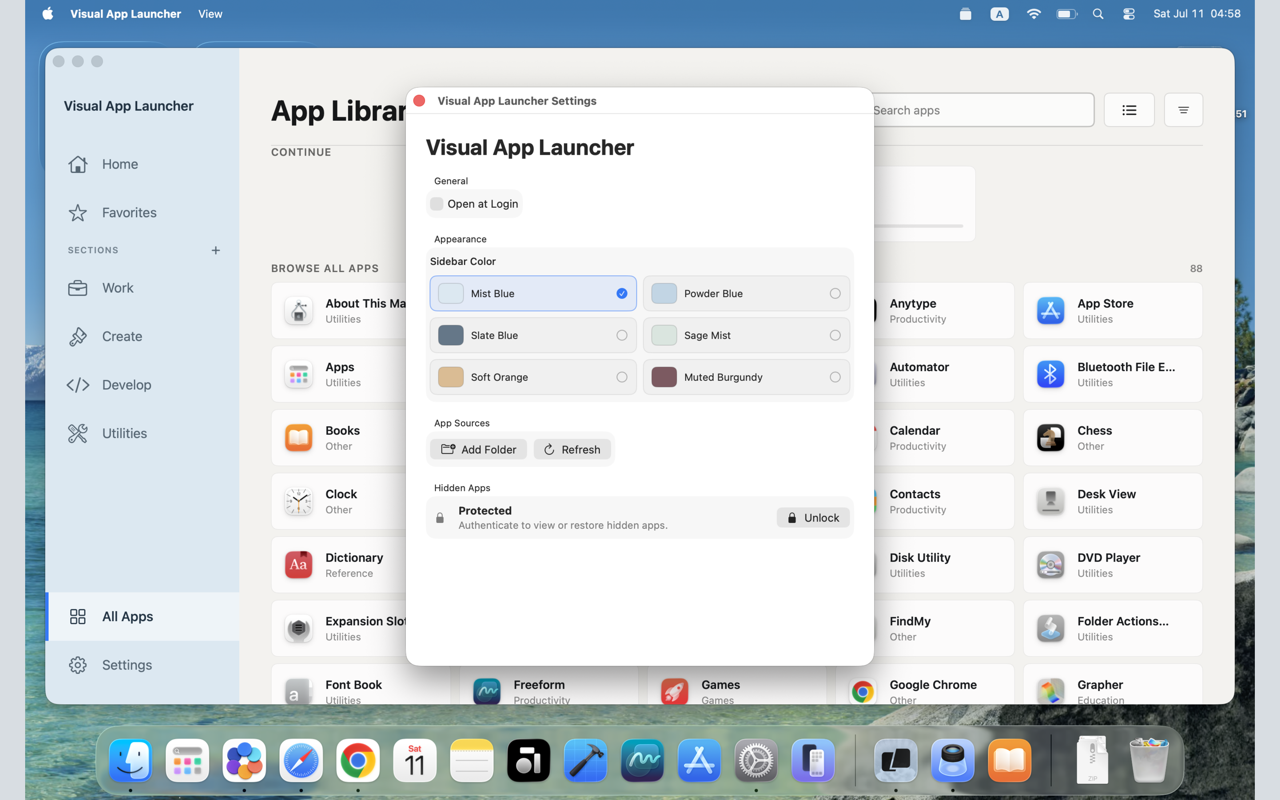
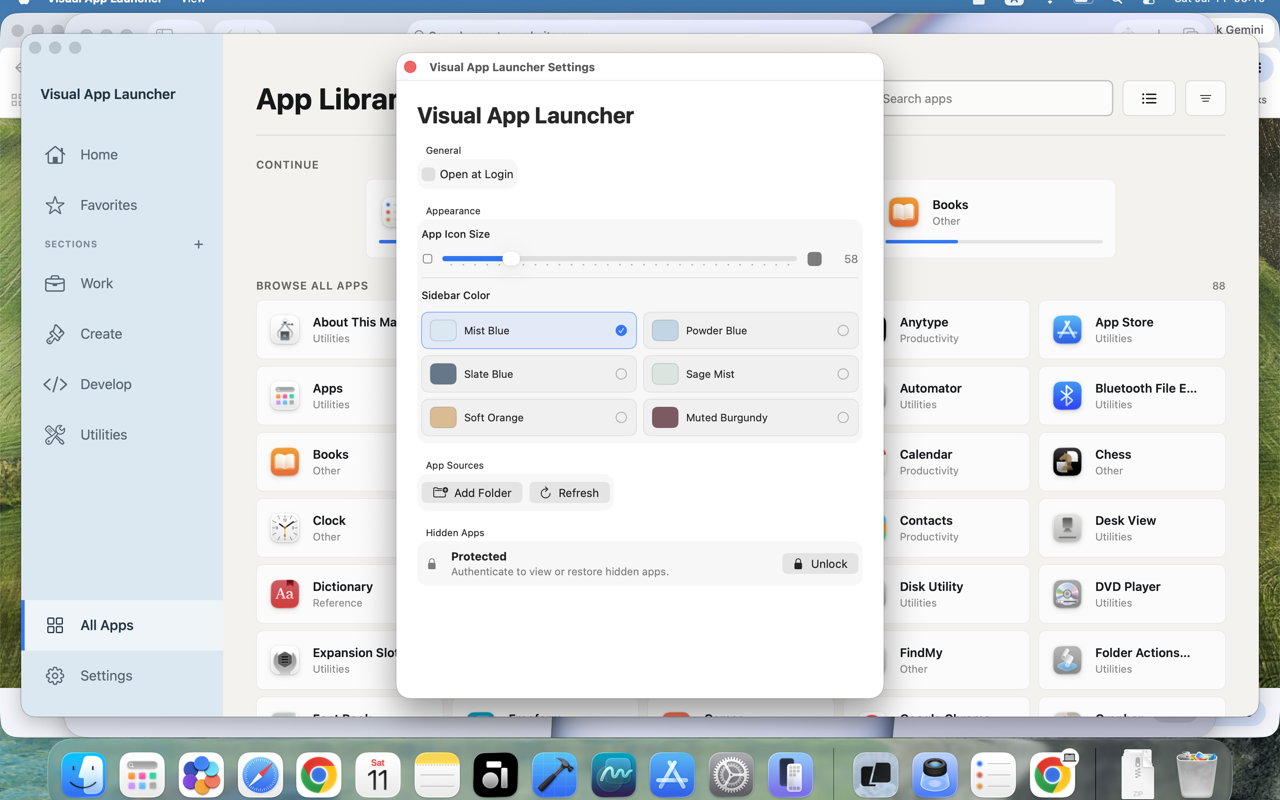
Update Visual App Launcher app description

diff --git a/html/VisualAppLauncher/index.html b/html/VisualAppLauncher/index.html
@@ -6,10 +6,10 @@
     <meta charset="utf-8">
     <meta http-equiv="X-UA-Compatible" content="IE=edge">
     <meta name="viewport" content="width=device-width, initial-scale=1">
-    <meta name="description" content="Visual App Launcher shows Mac applications as a visual grid of icons for fast launching without typing a query.">
+    <meta name="description" content="Visual App Launcher is a native visual library for browsing, organizing, searching, and opening Mac applications.">
     <meta name="author" content="Ivan Kramarchuk">
 
-    <title>Visual App Launcher - Visual launcher for macOS apps</title>
+    <title>Visual App Launcher - Visual app library for macOS</title>
 
     <link href="../TranslationBooks/css/bootstrap.min.css" rel="stylesheet">
     <link href="../TranslationBooks/css/freelancer.css" rel="stylesheet">
@@ -101,7 +101,7 @@
                     <img src="img/screenshots/01-ilaunchpad-1280x800.png?v=20260711" class="img-responsive" alt="Visual App Launcher app library and search">
                 </div>
                 <div class="col-sm-4 portfolio-item">
-                    <img src="img/screenshots/02-ilaunchpad-1280x800.png?v=20260711" class="img-responsive" alt="Visual App Launcher settings">
+                    <img src="img/screenshots/02-ilaunchpad-1280x800.png?v=20260711-2" class="img-responsive" alt="Visual App Launcher settings">
                 </div>
                 <div class="col-sm-4 portfolio-item">
                     <img src="img/screenshots/03-ilaunchpad-1280x800.png?v=20260711" class="img-responsive" alt="Visual App Launcher Work section context menu">
@@ -121,10 +121,10 @@
             </div>
             <div class="row">
                 <div class="col-lg-8 col-lg-offset-2">
-                    <p key="about-text1">Visual App Launcher shows your Mac apps as a visual grid of icons, so you can launch what you need by recognition instead of typing a query.</p>
-                    <p key="about-text2">Open it with Option-Space, use search when you need it, and browse Home, Favorites, and All Apps. Recently used apps stay close at hand in Continue.</p>
-                    <p key="about-text3">Create your own sections and freely move apps between them to organize your library around your workflow. You can also add application folders, adjust columns and icon size, and hide apps that you do not want to show in the launcher. Hidden apps are protected before they can be restored.</p>
-                    <p key="about-text4">The app runs locally on your Mac and does not display ads.</p>
+                    <p key="about-text1">Visual App Launcher gives your Mac a clear visual library for browsing, organizing, and opening applications. Switch between compact cards and an icon grid, then launch the app you recognize without having to type a query.</p>
+                    <p key="about-text2">Press Option-Space to show or hide the library. Home keeps recent activity and frequently opened apps close at hand, while Favorites and All Apps provide quick access to saved tools and the complete catalog. Search works across the entire library, and apps can be sorted by name, recent use, most used, or newest.</p>
+                    <p key="about-text3">Start with Work, Create, Develop, and Utilities, or build your own sections. Drag apps into Favorites or sections, reorder sections in the sidebar, and use their context menus to rename them, choose an icon, or delete them. You can also add read-only application folders, adjust icon size and sidebar appearance, and hide apps you do not want in the library. Restoring hidden apps requires Mac authentication.</p>
+                    <p key="about-text4">Your library preferences stay on your Mac. The app scans only standard application folders and the additional read-only folders you choose, automatically refreshes when apps change, and includes no ads or third-party analytics.</p>
                 </div>
             </div>
         </div>
@@ -300,8 +300,8 @@
     aLangKeys['en']['logo']='Visual App Launcher';
     aLangKeys['ru']['logo']='Visual App Launcher';
 
-    aLangKeys['en']['short_discription']='A visual launcher for Mac apps';
-    aLangKeys['ru']['short_discription']='Визуальный лаунчер приложений для Mac';
+    aLangKeys['en']['short_discription']='A visual app library for your Mac';
+    aLangKeys['ru']['short_discription']='Визуальная библиотека приложений для Mac';
 
     aLangKeys['en']['availability']='Mac App Store version is being prepared';
     aLangKeys['ru']['availability']='Версия для Mac App Store готовится к публикации';
@@ -312,17 +312,17 @@
     aLangKeys['en']['about']='About';
     aLangKeys['ru']['about']='О приложении';
 
-    aLangKeys['en']['about-text1']='Visual App Launcher shows your Mac apps as a visual grid of icons, so you can launch what you need by recognition instead of typing a query.';
-    aLangKeys['ru']['about-text1']='Visual App Launcher показывает приложения Mac в виде наглядной сетки иконок, чтобы запускать их визуально, без обязательного поиска по названию.';
+    aLangKeys['en']['about-text1']='Visual App Launcher gives your Mac a clear visual library for browsing, organizing, and opening applications. Switch between compact cards and an icon grid, then launch the app you recognize without having to type a query.';
+    aLangKeys['ru']['about-text1']='Visual App Launcher превращает приложения Mac в наглядную библиотеку для просмотра, организации и запуска. Переключайтесь между компактными карточками и сеткой иконок и открывайте нужное приложение визуально, без обязательного поиска по названию.';
 
-    aLangKeys['en']['about-text2']='Open it with Option-Space, use search when you need it, and browse Home, Favorites, and All Apps. Recently used apps stay close at hand in Continue.';
-    aLangKeys['ru']['about-text2']='Открывайте окно через Option-Space, используйте поиск при необходимости и переходите между Home, Favorites и All Apps. Недавно использованные приложения всегда под рукой в Continue.';
+    aLangKeys['en']['about-text2']='Press Option-Space to show or hide the library. Home keeps recent activity and frequently opened apps close at hand, while Favorites and All Apps provide quick access to saved tools and the complete catalog. Search works across the entire library, and apps can be sorted by name, recent use, most used, or newest.';
+    aLangKeys['ru']['about-text2']='Нажмите Option-Space, чтобы показать или скрыть библиотеку. В Home собраны недавняя активность и часто открываемые приложения, Favorites хранит избранное, а All Apps показывает полный каталог. Поиск работает по всей библиотеке, а приложения можно сортировать по названию, времени последнего использования, частоте запусков или дате добавления.';
 
-    aLangKeys['en']['about-text3']='Create your own sections and freely move apps between them to organize your library around your workflow. You can also add application folders, adjust columns and icon size, and hide apps that you do not want to show in the launcher. Hidden apps are protected before they can be restored.';
-    aLangKeys['ru']['about-text3']='Создавайте собственные разделы и свободно перемещайте приложения между ними, организуя библиотеку под свой рабочий процесс. Также можно добавлять папки с приложениями, настраивать количество колонок и размер иконок и скрывать приложения, которые не должны отображаться в лаунчере. Для восстановления скрытых приложений требуется подтверждение доступа.';
+    aLangKeys['en']['about-text3']='Start with Work, Create, Develop, and Utilities, or build your own sections. Drag apps into Favorites or sections, reorder sections in the sidebar, and use their context menus to rename them, choose an icon, or delete them. You can also add read-only application folders, adjust icon size and sidebar appearance, and hide apps you do not want in the library. Restoring hidden apps requires Mac authentication.';
+    aLangKeys['ru']['about-text3']='Используйте стартовые разделы Work, Create, Develop и Utilities или создавайте собственные. Перетаскивайте приложения в Favorites и разделы, меняйте порядок разделов в боковой панели, переименовывайте их, выбирайте иконки или удаляйте через контекстное меню. Также можно добавлять папки с приложениями в режиме только для чтения, настраивать размер иконок и оформление боковой панели и скрывать ненужные приложения. Для восстановления скрытых приложений требуется аутентификация на Mac.';
 
-    aLangKeys['en']['about-text4']='The app runs locally on your Mac and does not display ads.';
-    aLangKeys['ru']['about-text4']='Приложение работает локально на Mac и не показывает рекламу.';
+    aLangKeys['en']['about-text4']='Your library preferences stay on your Mac. The app scans only standard application folders and the additional read-only folders you choose, automatically refreshes when apps change, and includes no ads or third-party analytics.';
+    aLangKeys['ru']['about-text4']='Настройки библиотеки остаются на вашем Mac. Приложение сканирует только стандартные папки приложений и дополнительные папки, которые вы выбрали для доступа только на чтение, автоматически обновляет каталог при изменениях и не содержит рекламы или сторонней аналитики.';
 
     aLangKeys['en']['contact']='Contact';
     aLangKeys['ru']['contact']='Контакты';
